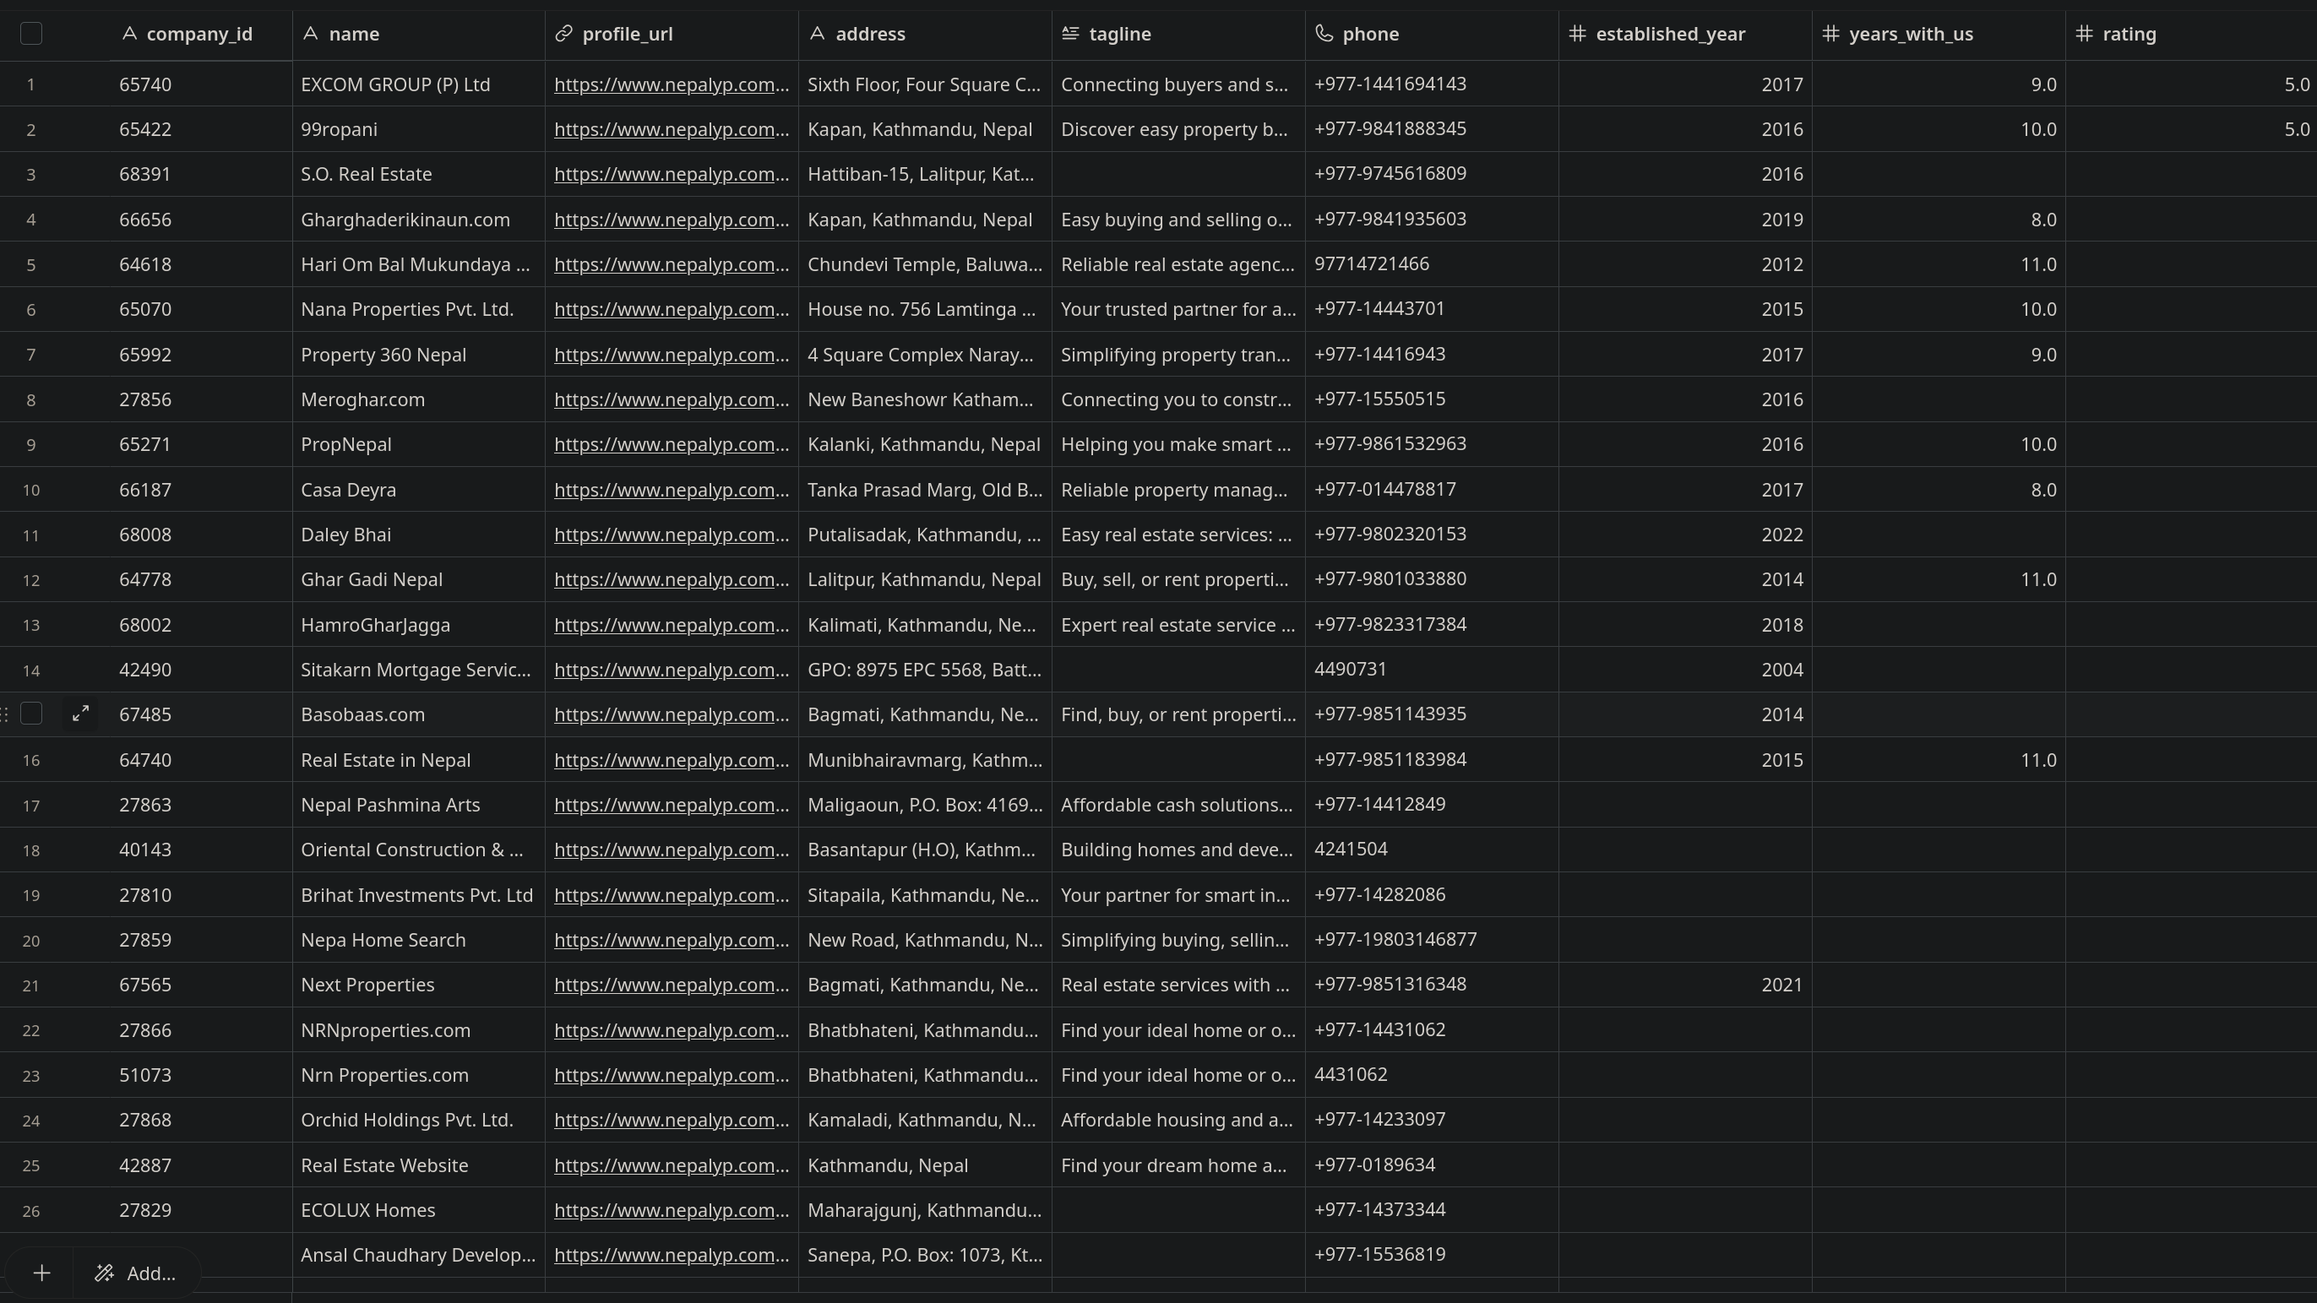
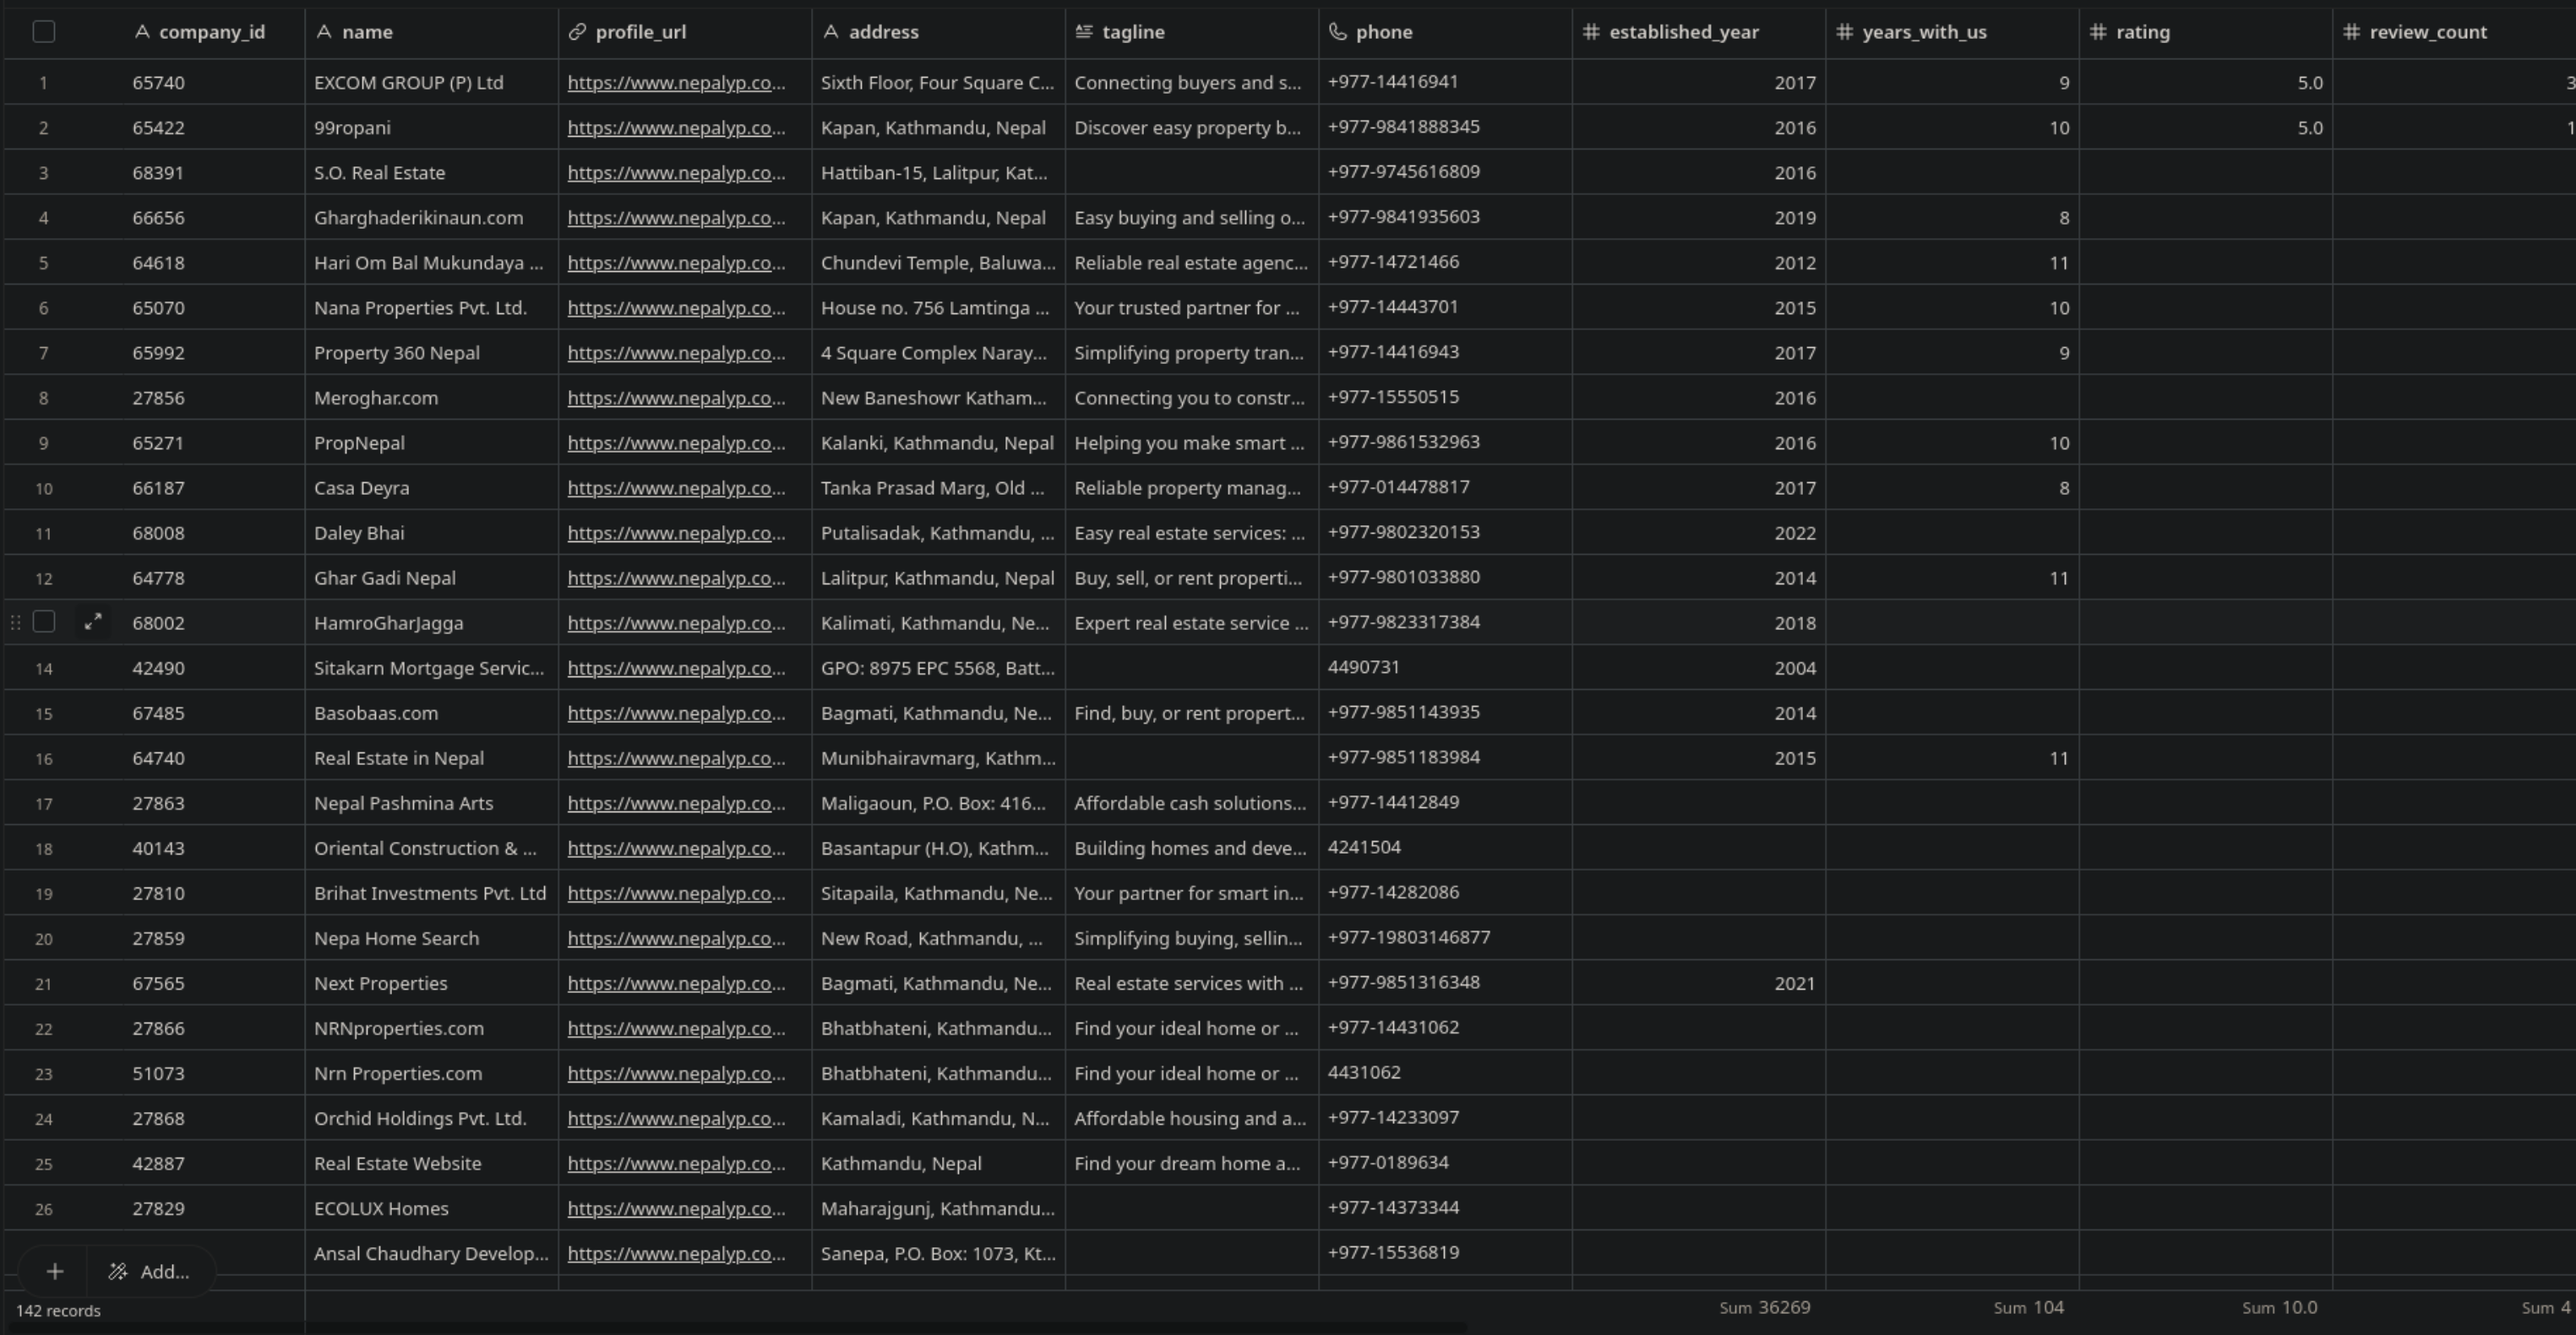
docs: retake the Airtable screenshots after the phone fix
The old ones were from the 29 Sep run, before the 18 Oct fix, so row 1
showed the glued number +977-1441694143 with no Review Note. The new run
shows +977-14416941 with the alternate in Review Note, matching the
Output section. Number columns now show whole numbers like the schema
says, and Date Added is a plain date.

diff --git a/README.md b/README.md
@@ -168,7 +168,7 @@ Click **Execute workflow**.
 | Dedup Status | Single select (`New`; duplicates are skipped, so only `New` is written) |
 | Needs Review | Checkbox |
 | Review Note | Single line text |
-| Date Added | Date, with time |
+| Date Added | Date |
 
 > **Note:** leadhound's own `scraped_at` value (when the lead was originally
 > scraped) is not currently carried through into Airtable. The `scraped_at`
